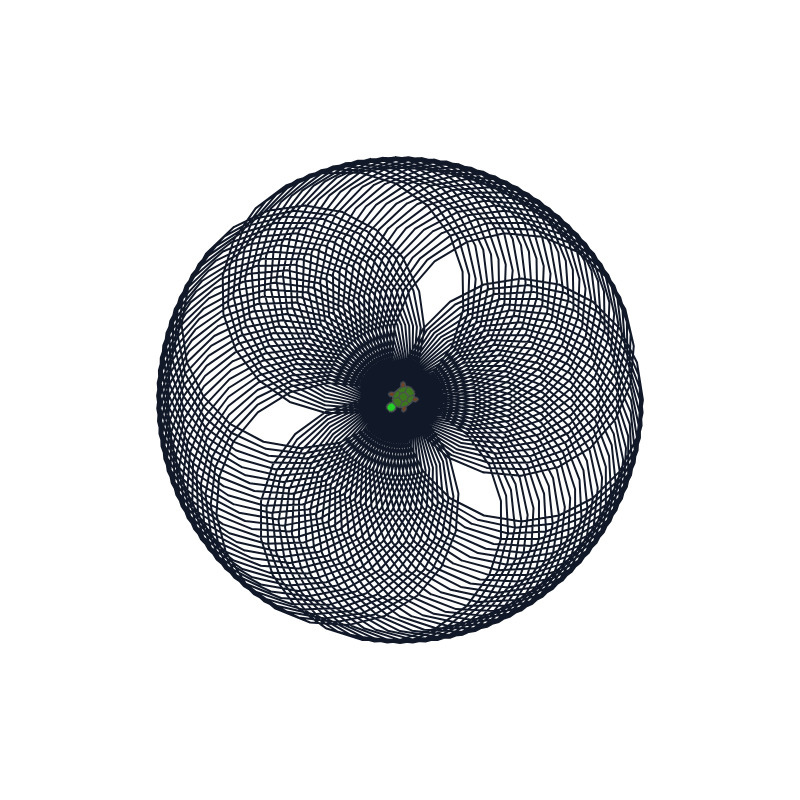
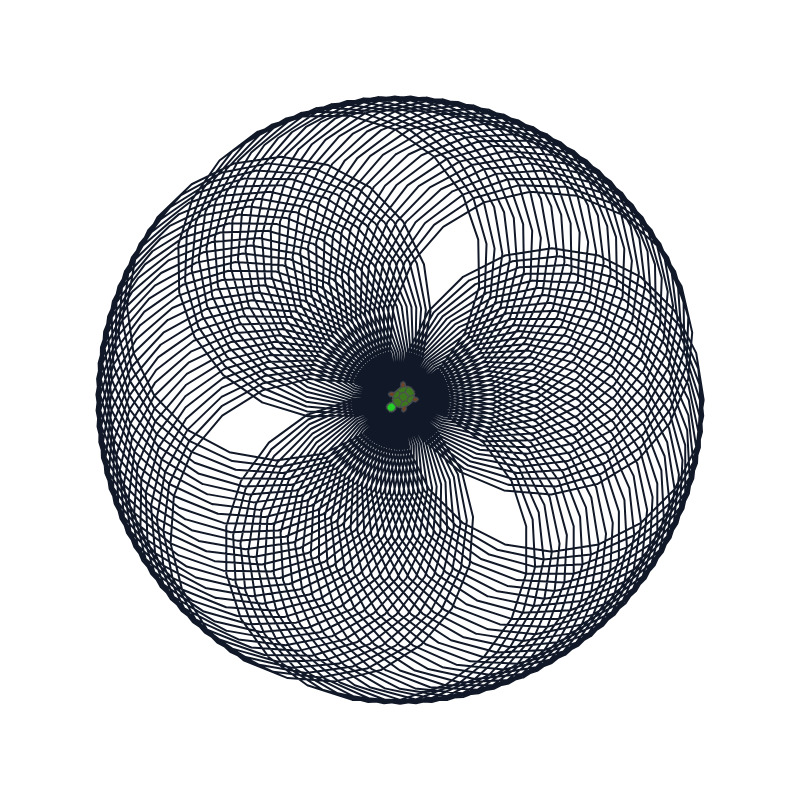
improve examples

diff --git a/src/data/pathwayExamples.ts b/src/data/pathwayExamples.ts
@@ -1,123 +1,245 @@
-import type { IPathwayExample } from "../models";
+import type { ICommandModel, IPathwayExample } from "../models";
 import { Parser } from "../utils/parser";
 
-type ExampleSpec = Omit<IPathwayExample, "command">;
+interface ExampleSpec {
+  name: string;
+  source: string;
+  image: string;
+  type: IPathwayExample["type"];
+  scale?: number;
+  start?: readonly [x: number, y: number];
+}
 
-const example = (spec: ExampleSpec): IPathwayExample => {
-  const commands = new Parser(spec.path).parse(() => {
+const round = (value: number): number => Math.round(value * 100) / 100;
+
+const scaleCommand = (
+  command: Readonly<ICommandModel>,
+  scale: number,
+): ICommandModel => ({
+  ...command,
+  ...((command.name === "fd" || command.name === "bk") &&
+  command.value !== undefined
+    ? { value: round(command.value * scale) }
+    : {}),
+  ...(command.commands
+    ? {
+        commands: command.commands.map((nestedCommand) =>
+          scaleCommand(nestedCommand, scale),
+        ),
+      }
+    : {}),
+});
+
+const serializeCommand = (command: Readonly<ICommandModel>): string => {
+  if (command.name === "repeat") {
+    const nestedCommands = command.commands
+      ?.map((nestedCommand) => serializeCommand(nestedCommand))
+      .join(" ");
+    return `repeat ${command.value ?? 0} [${nestedCommands ?? ""}]`;
+  }
+
+  if (command.name === "setpos") {
+    return `setpos ${command.value ?? 0} ${command.arg2 ?? 0}`;
+  }
+
+  if (command.name === "setsc" || command.name === "setbc") {
+    return `${command.name} ${command.color?.replace("#", "") ?? "000000"}`;
+  }
+
+  if (
+    command.name === "hideturtle" ||
+    command.name === "home" ||
+    command.name === "pendown" ||
+    command.name === "penup" ||
+    command.name === "showturtle"
+  ) {
+    return command.name;
+  }
+
+  return `${command.name} ${command.value ?? 0}`;
+};
+
+const example = ({
+  scale = 1,
+  source,
+  start,
+  ...spec
+}: ExampleSpec): IPathwayExample => {
+  const parsedCommands = new Parser(source).parse(() => {
     throw new Error(`Invalid bundled example: ${spec.type} / ${spec.name}`);
   });
 
-  if (commands.length !== 1) {
+  if (parsedCommands.length !== 1) {
     throw new Error(
       `Bundled example must contain one root command: ${spec.type} / ${spec.name}`,
     );
   }
 
-  return { ...spec, command: commands[0] };
+  const scaledCommand = scaleCommand(parsedCommands[0], scale);
+  const command =
+    start === undefined
+      ? scaledCommand
+      : {
+          id: 0,
+          name: "repeat" as const,
+          value: 1,
+          commands: [
+            { id: 0, name: "penup" as const },
+            {
+              id: 0,
+              name: "setpos" as const,
+              value: start[0],
+              arg2: start[1],
+            },
+            { id: 0, name: "pendown" as const },
+            scaledCommand,
+          ],
+        };
+
+  return {
+    ...spec,
+    command,
+    path: serializeCommand(command),
+  };
 };
 
 export const pathwayExamples: readonly IPathwayExample[] = [
   example({
-    name: "command3",
-    path: "repeat 100 [repeat 100 [tr 18 fd 45] tr 219]",
+    name: "Orbital bloom",
+    source: "repeat 100 [repeat 100 [tr 18 fd 45] tr 219]",
     image: "cnormal3.jpg",
     type: "simple",
   }),
   example({
-    name: "command10",
-    path: "repeat 79 [repeat 102 [tr 103 fd 243 tl 19] tr 239 fd 22 tr 9 bk 9]",
+    name: "Lacework sun",
+    source:
+      "repeat 79 [repeat 102 [tr 103 fd 243 tl 19] tr 239 fd 22 tr 9 bk 9]",
     image: "cnormal10.jpg",
     type: "simple",
   }),
   example({
-    name: "command11",
-    path: "repeat 100 [repeat 100 [tr 18 fd 38] tr 239]",
+    name: "Triple vortex",
+    source: "repeat 100 [repeat 100 [tr 18 fd 38] tr 239]",
     image: "cnormal11.jpg",
     type: "simple",
+    scale: 1.25,
   }),
   example({
-    name: "Square flower",
-    path: "repeat 12 [repeat 4 [fd 120 tr 90] tr 30]",
+    name: "Rotating square bloom",
+    source: "repeat 12 [repeat 4 [fd 120 tr 90] tr 30]",
     image: "square-flower.png",
     type: "simple",
+    scale: 1.9,
   }),
   example({
-    name: "command4",
-    path: "repeat 60 [fd 102 repeat 1 [bk 17 repeat 10 [tr 15 fd 1 tl 20 bk 18 tr 12]] tr 25 fd 22]",
+    name: "Feathered spiral",
+    source:
+      "repeat 60 [fd 102 repeat 1 [bk 17 repeat 10 [tr 15 fd 1 tl 20 bk 18 tr 12]] tr 25 fd 22]",
     image: "ccrazy4.jpg",
     type: "crazy",
+    scale: 2.45,
+    start: [425, 526],
   }),
   example({
-    name: "command5",
-    path: "repeat 61 [fd 97 repeat 10 [bk 17 setsw 2 repeat 10 [tr 15 setsw 1 fd 1 tl 20 bk 18 tr 13]] tr 23 setsw 15 fd 17]",
+    name: "Orbit knot",
+    source:
+      "repeat 61 [fd 97 repeat 10 [bk 17 setsw 2 repeat 10 [tr 15 setsw 1 fd 1 tl 20 bk 18 tr 13]] tr 23 setsw 15 fd 17]",
     image: "ccrazy5.jpg",
     type: "crazy",
+    scale: 1.3,
+    start: [407, 475],
   }),
   example({
-    name: "command6",
-    path: "repeat 61 [fd 97 repeat 23 [bk 1 setsw 1 fd 12 repeat 10 [tr 9 fd 1 setsw 1 tl 20 bk 7 tr 13]] tr 23 setsw 7 fd 14]",
+    name: "Spiral lattice",
+    source:
+      "repeat 61 [fd 97 repeat 23 [bk 1 setsw 1 fd 12 repeat 10 [tr 9 fd 1 setsw 1 tl 20 bk 7 tr 13]] tr 23 setsw 7 fd 14]",
     image: "ccrazy6.jpg",
     type: "crazy",
+    scale: 1.3,
+    start: [422, 504],
   }),
   example({
-    name: "command12",
-    path: "repeat 40 [fd 330 tr 1 repeat 20 [bk 4 tl 7 fd 1 repeat 12 [repeat 14 [fd 5 tr 4 bk 3] fd 11 tr 7] bk 4 tl 2] fd 4 tr 12]",
+    name: "Looped halo wheel",
+    source:
+      "repeat 40 [fd 330 tr 1 repeat 20 [bk 4 tl 7 fd 1 repeat 12 [repeat 14 [fd 5 tr 4 bk 3] fd 11 tr 7] bk 4 tl 2] fd 4 tr 12]",
     image: "ccrazy12.jpg",
     type: "crazy",
+    scale: 1.5,
+    start: [146, 381],
   }),
   example({
-    name: "Hexagon mandala",
-    path: "repeat 36 [repeat 6 [fd 110 tr 60] tr 10 fd 8]",
+    name: "Hexagon vortex",
+    source: "repeat 36 [repeat 6 [fd 110 tr 60] tr 10 fd 8]",
     image: "hexagon-mandala.png",
     type: "crazy",
+    scale: 1.65,
+    start: [407, 326],
   }),
   example({
-    name: "Fractal lightning crown",
-    path: "repeat 12 [fd 60 repeat 4 [fd 22 tr 45 fd 18 bk 18 tl 90 fd 18 bk 18 tr 45] bk 148 tr 30]",
+    name: "Fractal snowflake",
+    source:
+      "repeat 12 [fd 60 repeat 4 [fd 22 tr 45 fd 18 bk 18 tl 90 fd 18 bk 18 tr 45] bk 148 tr 30]",
     image: "fractal-lightning-crown.png",
     type: "crazy",
+    scale: 1.9,
   }),
   example({
-    name: "Impossible woven cube",
-    path: "repeat 3 [repeat 4 [fd 120 tr 90] tr 120 repeat 4 [fd 85 tr 90] tr 120]",
+    name: "Three-square propeller",
+    source:
+      "repeat 3 [repeat 4 [fd 120 tr 90] tr 120 repeat 4 [fd 85 tr 90] tr 120]",
     image: "impossible-woven-cube.png",
     type: "crazy",
+    scale: 2.1,
+    start: [447, 447],
   }),
   example({
-    name: "command6",
-    path: "repeat 8 [tr 15 fd 1 setsc debad3 bk 15 tl 47 setsc daa9cc repeat 27 [fd 10 tr 10 bk 10 tl 42 repeat 84 [fd 57 setsc 4d3345 tr 31 bk 11 setsc 5f3f55 tl 21 bk 9 fd 13 setsc ba97af tl 39 bk 20]]]",
+    name: "Mauve orbit bloom",
+    source:
+      "repeat 8 [tr 15 fd 1 setsc debad3 bk 15 tl 47 setsc daa9cc repeat 27 [fd 10 tr 10 bk 10 tl 42 repeat 84 [fd 57 setsc 4d3345 tr 31 bk 11 setsc 5f3f55 tl 21 bk 9 fd 13 setsc ba97af tl 39 bk 20]]]",
     image: "ccolor6.jpg",
     type: "color",
+    scale: 1.75,
+    start: [438, 487],
   }),
   example({
-    name: "command9",
-    path: "repeat 8 [tr 15 fd 1 setsc debad3 bk 15 tl 47 setsc daa9cc repeat 27 [fd 10 tr 10 bk 10 tl 74 repeat 88 [fd 90 setsc 4d3345 tr 40 bk 11 setsc 5f3f55 tl 34 bk 9 fd 13 setsc ba97af tl 39 bk 20]]]",
+    name: "Mauve woven disk",
+    source:
+      "repeat 8 [tr 15 fd 1 setsc debad3 bk 15 tl 47 setsc daa9cc repeat 27 [fd 10 tr 10 bk 10 tl 74 repeat 88 [fd 90 setsc 4d3345 tr 40 bk 11 setsc 5f3f55 tl 34 bk 9 fd 13 setsc ba97af tl 39 bk 20]]]",
     image: "ccolor9.jpg",
     type: "color",
+    scale: 1.3,
+    start: [434, 455],
   }),
   example({
     name: "Rainbow rosette",
-    path: "repeat 12 [setsc ff4d6d repeat 3 [fd 120 tr 120] tr 10 setsc ffb703 repeat 4 [fd 90 tr 90] tr 10 setsc 00b4d8 repeat 5 [fd 75 tr 72] tr 10]",
+    source:
+      "repeat 12 [setsc ff4d6d repeat 3 [fd 120 tr 120] tr 10 setsc ffb703 repeat 4 [fd 90 tr 90] tr 10 setsc 00b4d8 repeat 5 [fd 75 tr 72] tr 10]",
     image: "rainbow-rosette.png",
     type: "color",
+    scale: 2.4,
   }),
   example({
-    name: "Color pinwheel",
-    path: "repeat 8 [setsc e63946 fd 150 bk 150 tr 15 setsc ffb703 fd 130 bk 130 tr 15 setsc 2a9d8f fd 110 bk 110 tr 15]",
+    name: "Rainbow ray pinwheel",
+    source:
+      "repeat 8 [setsc e63946 fd 150 bk 150 tr 15 setsc ffb703 fd 130 bk 130 tr 15 setsc 2a9d8f fd 110 bk 110 tr 15]",
     image: "color-pinwheel.png",
     type: "color",
+    scale: 2,
   }),
   example({
-    name: "Electric dreamcatcher",
-    path: "repeat 24 [setsc ff006e repeat 3 [fd 135 tr 120] tr 5 setsc 8338ec repeat 4 [fd 100 tr 90] tr 5 setsc 3a86ff repeat 6 [fd 75 tr 60] tr 5]",
+    name: "Neon polygon web",
+    source:
+      "repeat 24 [setsc ff006e repeat 3 [fd 135 tr 120] tr 5 setsc 8338ec repeat 4 [fd 100 tr 90] tr 5 setsc 3a86ff repeat 6 [fd 75 tr 60] tr 5]",
     image: "electric-dreamcatcher.png",
     type: "color",
+    scale: 2,
   }),
   example({
-    name: "Cybernetic iris",
-    path: "repeat 1 [setbc 071013 repeat 36 [setsc 00ff9f setsw 3 repeat 4 [fd 100 tr 90] tr 10 setsc 00b8ff setsw 1 fd 150 bk 150]]",
+    name: "Neon iris",
+    source:
+      "repeat 1 [setbc 071013 repeat 36 [setsc 00ff9f setsw 3 repeat 4 [fd 100 tr 90] tr 10 setsc 00b8ff setsw 1 fd 150 bk 150]]",
     image: "cybernetic-iris.png",
     type: "color",
+    scale: 2,
   }),
 ];
